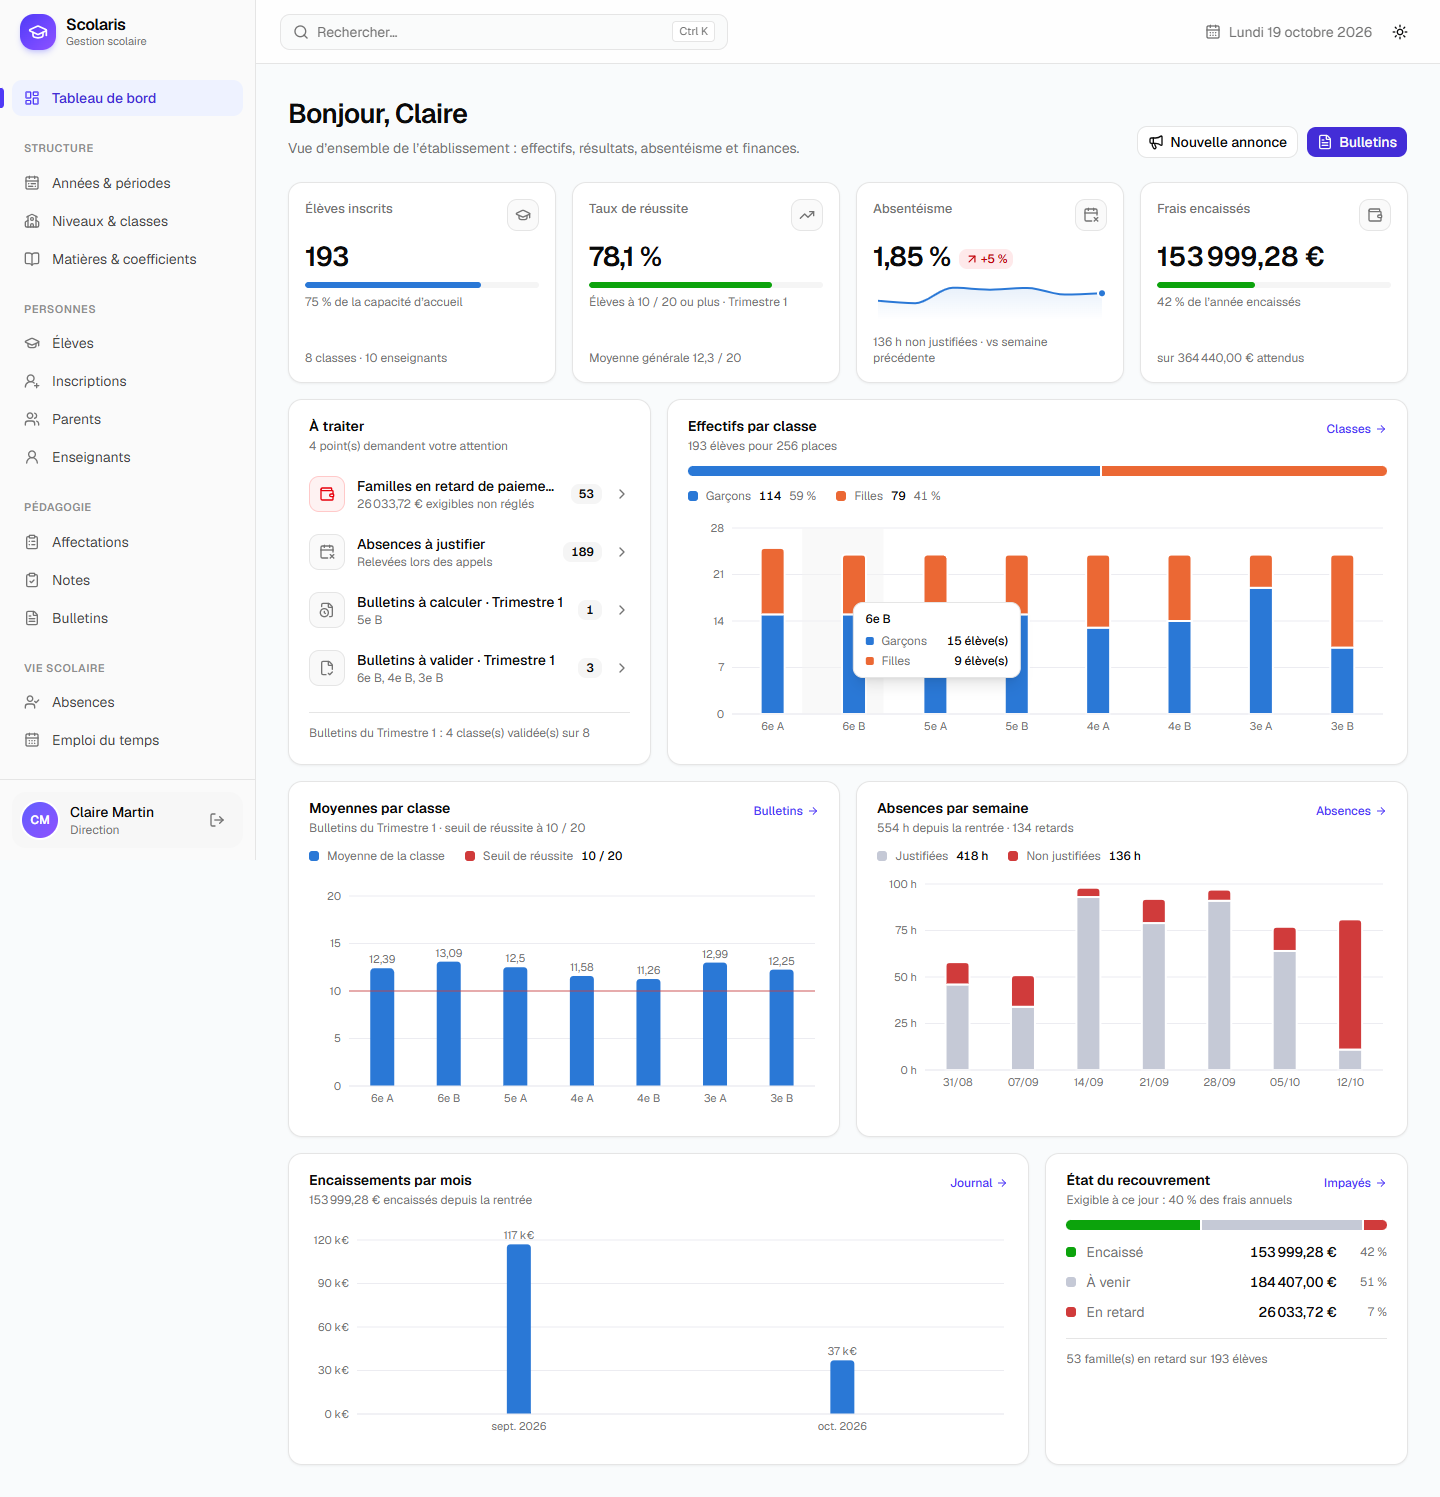
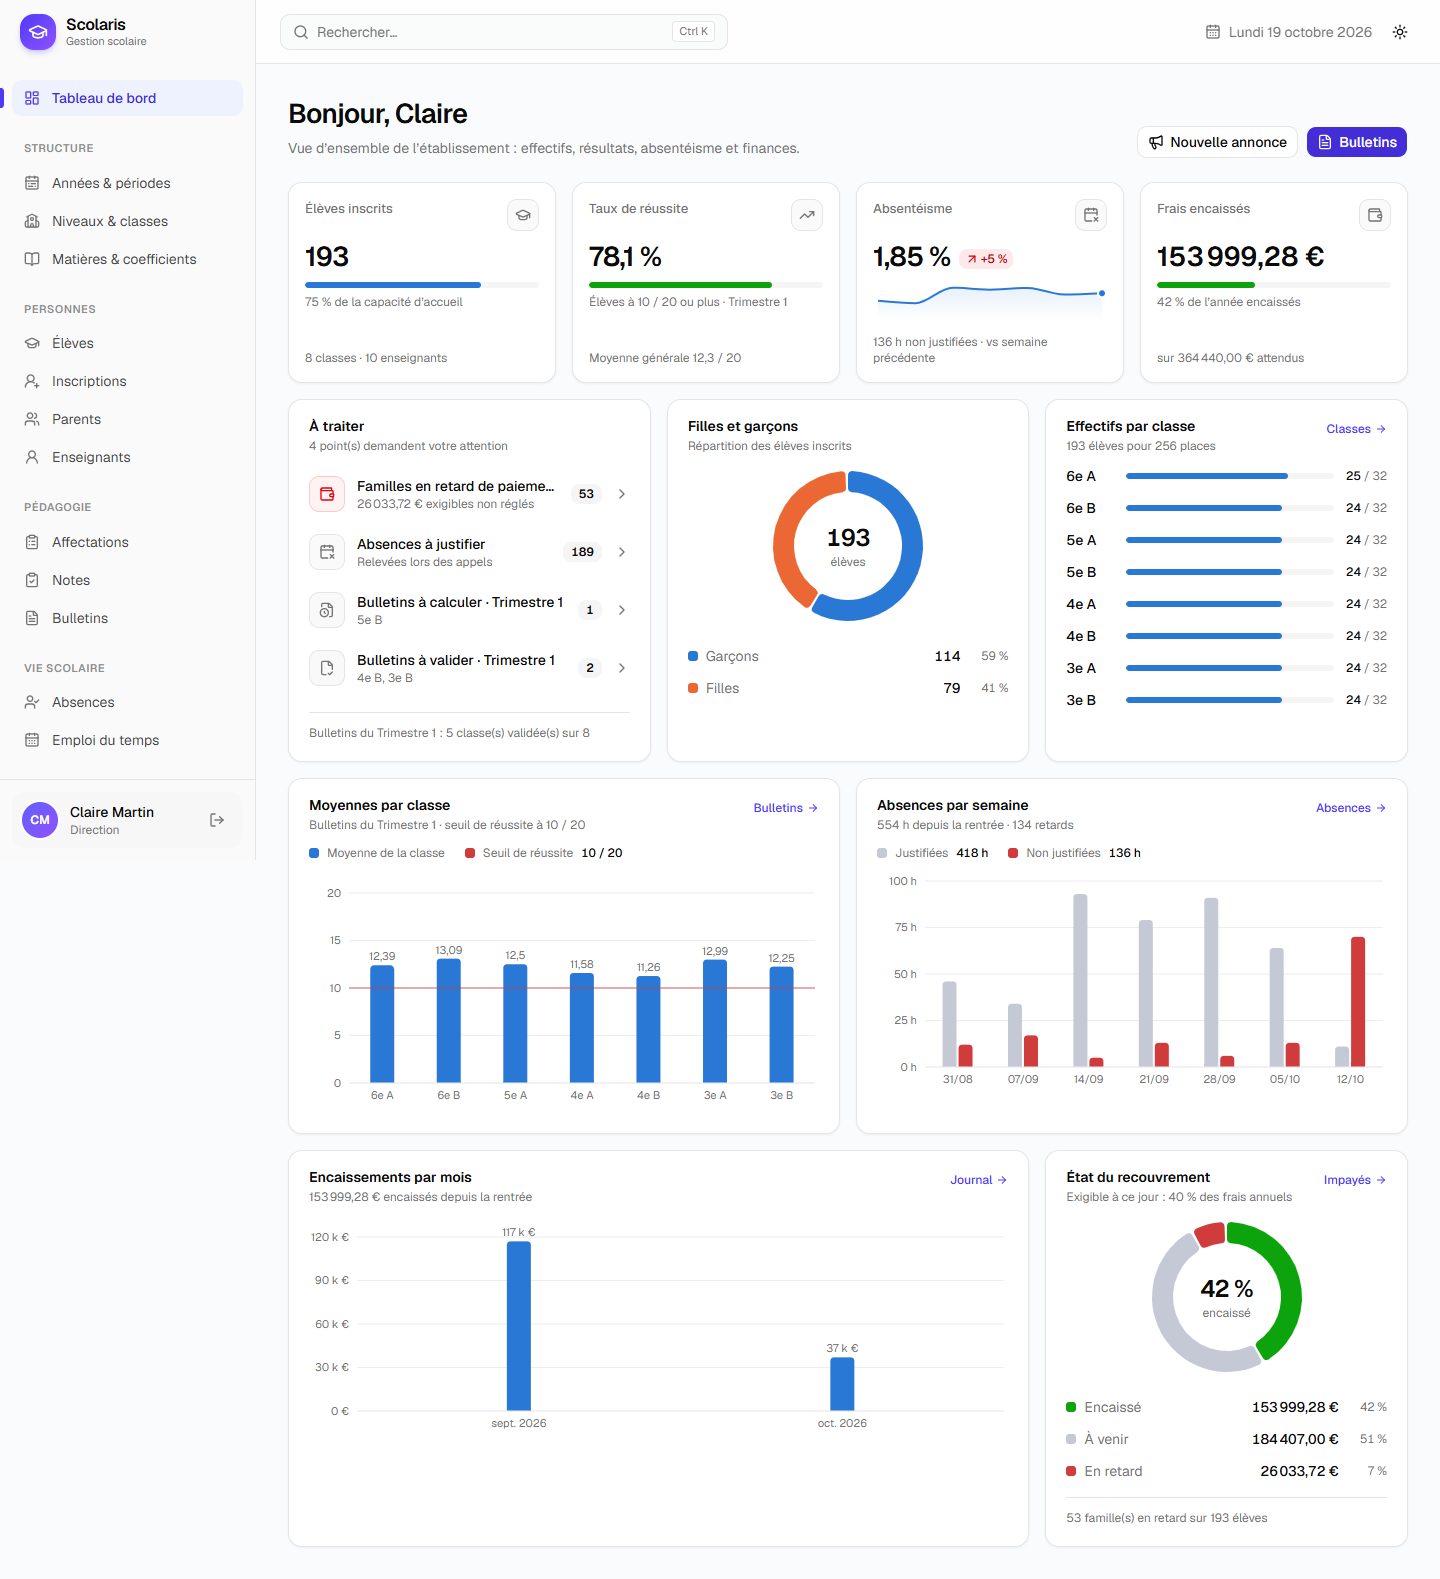
style(frontend): graphiques du tableau de bord plus lisibles
- Donuts pour filles/garçons et l'état du recouvrement (chiffre clé au centre)
- Effectifs par classe en barres de remplissage (effectif / capacité)
- Absences par semaine en barres côte à côte au lieu d'empilées

diff --git a/frontend/src/features/tableau-de-bord/components/TableauDirection.tsx b/frontend/src/features/tableau-de-bord/components/TableauDirection.tsx
@@ -8,7 +8,7 @@ import type { TableauDirection as Donnees } from '../types'
 import { ATraiter } from './ATraiter'
 import { Indicateur, LienPanneau, Panneau } from './Elements'
 import { AXE, COULEURS } from './graphiques'
-import { Infobulle, Jauge, Legende, Sparkline } from './Visuels'
+import { Donut, Infobulle, Jauge, Legende, Sparkline } from './Visuels'
 
 const GRILLE = { vertical: false, stroke: COULEURS.grille } as const
 const RAYON_HAUT: [number, number, number, number] = [4, 4, 0, 0]
@@ -82,35 +82,28 @@ export function TableauDirection({ donnees }: { donnees: Donnees }) {
         </Indicateur>
       </div>
 
-      {/* Actions en attente et effectifs */}
-      <div className="grid gap-4 lg:grid-cols-3">
+      {/* Actions en attente, répartition filles / garçons, remplissage des classes */}
+      <div className="grid gap-4 md:grid-cols-2 lg:grid-cols-3">
         <ATraiter donnees={donnees} />
 
+        <Panneau titre="Filles et garçons" description="Répartition des élèves inscrits">
+          <Donut
+            centre={String(compteurs.eleves)}
+            sousCentre="élèves"
+            parts={[
+              { libelle: 'Garçons', valeur: garcons, couleur: COULEURS.serie1 },
+              { libelle: 'Filles', valeur: filles, couleur: COULEURS.serie2 },
+            ]}
+          />
+        </Panneau>
+
         <Panneau
-          className="lg:col-span-2"
+          className="md:col-span-2 lg:col-span-1"
           titre="Effectifs par classe"
           description={`${compteurs.eleves} élèves pour ${capacite} places`}
           action={<LienPanneau to="/structure/classes">Classes</LienPanneau>}
         >
-          <Repartition
-            segments={[
-              { libelle: 'Garçons', valeur: garcons, couleur: COULEURS.serie1 },
-              { libelle: 'Filles', valeur: filles, couleur: COULEURS.serie2 },
-            ]}
-            formater={(v) => String(v)}
-          />
-          <div className="mt-4 h-56">
-            <ResponsiveContainer width="100%" height="100%">
-              <BarChart data={effectifs.map((e) => ({ classe: e.classe.nom, Garçons: e.garcons, Filles: e.filles }))} margin={{ top: 8, right: 4, left: -16, bottom: 0 }}>
-                <CartesianGrid {...GRILLE} />
-                <XAxis dataKey="classe" tick={AXE} tickLine={false} axisLine={{ stroke: COULEURS.grille }} />
-                <YAxis tick={AXE} tickLine={false} axisLine={false} allowDecimals={false} />
-                <Tooltip cursor={{ fill: 'var(--muted)', opacity: 0.5 }} content={<Infobulle formater={(v) => `${v} élève(s)`} />} />
-                <Bar dataKey="Garçons" stackId="effectif" fill={COULEURS.serie1} maxBarSize={24} stroke="var(--card)" strokeWidth={2} />
-                <Bar dataKey="Filles" stackId="effectif" fill={COULEURS.serie2} maxBarSize={24} stroke="var(--card)" strokeWidth={2} radius={RAYON_HAUT} />
-              </BarChart>
-            </ResponsiveContainer>
-          </div>
+          <RemplissageClasses effectifs={effectifs} />
         </Panneau>
       </div>
 
@@ -166,6 +159,7 @@ export function TableauDirection({ donnees }: { donnees: Donnees }) {
           <div className="h-56">
             <ResponsiveContainer width="100%" height="100%">
               <BarChart
+                barGap={2}
                 data={absenteisme.par_semaine.map((s) => ({ semaine: libelleSemaine(s.semaine), Justifiées: s.justifiees, 'Non justifiées': s.non_justifiees }))}
                 margin={{ top: 8, right: 4, left: -12, bottom: 0 }}
               >
@@ -176,8 +170,8 @@ export function TableauDirection({ donnees }: { donnees: Donnees }) {
                   cursor={{ fill: 'var(--muted)', opacity: 0.5 }}
                   content={<Infobulle formater={(v) => `${formatNombre(v)} h`} titre={(l) => `Semaine du ${l}`} />}
                 />
-                <Bar dataKey="Justifiées" stackId="h" fill={COULEURS.neutre} maxBarSize={24} stroke="var(--card)" strokeWidth={2} />
-                <Bar dataKey="Non justifiées" stackId="h" fill={COULEURS.critique} maxBarSize={24} stroke="var(--card)" strokeWidth={2} radius={RAYON_HAUT} />
+                <Bar dataKey="Justifiées" fill={COULEURS.neutre} maxBarSize={14} radius={RAYON_HAUT} />
+                <Bar dataKey="Non justifiées" fill={COULEURS.critique} maxBarSize={14} radius={RAYON_HAUT} />
               </BarChart>
             </ResponsiveContainer>
           </div>
@@ -207,19 +201,21 @@ export function TableauDirection({ donnees }: { donnees: Donnees }) {
           </div>
         </Panneau>
 
+
         <Panneau
           titre="État du recouvrement"
           description={`Exigible à ce jour : ${formatPourcentage(finances.pourcentage_exigible, 0)} des frais annuels`}
           action={<LienPanneau to="/paiements">Impayés</LienPanneau>}
         >
-          <Repartition
-            vertical
-            segments={[
+          <Donut
+            centre={`${partEncaissee} %`}
+            sousCentre="encaissé"
+            formater={(v) => formatMontant(v)}
+            parts={[
               { libelle: 'Encaissé', valeur: finances.encaisse, couleur: COULEURS.bon },
               { libelle: 'À venir', valeur: aVenir, couleur: COULEURS.neutre },
               { libelle: 'En retard', valeur: finances.retard, couleur: COULEURS.critique },
             ]}
-            formater={(v) => formatMontant(v)}
           />
           <p className="mt-4 border-t pt-3 text-xs text-muted-foreground">
             {finances.en_retard} famille(s) en retard sur {finances.eleves} élèves
@@ -230,43 +226,24 @@ export function TableauDirection({ donnees }: { donnees: Donnees }) {
   )
 }
 
-interface Segment {
-  libelle: string
-  valeur: number
-  couleur: string
-}
-
-/**
- * Répartition d'un total en barre segmentée (100 %), avec légende chiffrée.
- * Remplace les camemberts : les parts se comparent sur une même ligne.
- */
-function Repartition({ segments, formater, vertical = false }: { segments: Segment[]; formater: (v: number) => string; vertical?: boolean }) {
-  const total = segments.reduce((t, s) => t + s.valeur, 0)
-  const part = (v: number) => (total ? Math.round((v / total) * 100) : 0)
-
+/** Une ligne par classe : effectif sur capacité, en barre de remplissage. Une classe pleine passe en orange. */
+function RemplissageClasses({ effectifs }: { effectifs: Donnees['effectifs'] }) {
   return (
-    <div className="space-y-3">
-      <div className="flex h-2.5 w-full gap-0.5 overflow-hidden rounded-full" role="img" aria-label={segments.map((s) => `${s.libelle} ${part(s.valeur)} %`).join(', ')}>
-        {segments
-          .filter((s) => s.valeur > 0)
-          .map((s) => (
-            <div key={s.libelle} className="h-full first:rounded-l-full last:rounded-r-full" style={{ width: `${(s.valeur / total) * 100}%`, background: s.couleur }} />
-          ))}
-      </div>
-      {vertical ? (
-        <ul className="space-y-2.5">
-          {segments.map((s) => (
-            <li key={s.libelle} className="flex items-center gap-2.5 text-sm">
-              <span aria-hidden className="size-2.5 rounded-[3px]" style={{ background: s.couleur }} />
-              <span className="text-muted-foreground">{s.libelle}</span>
-              <span className="ml-auto font-medium tabular-nums">{formater(s.valeur)}</span>
-              <span className="w-10 text-right text-xs text-muted-foreground tabular-nums">{part(s.valeur)} %</span>
-            </li>
-          ))}
-        </ul>
-      ) : (
-        <Legende entrees={segments.map((s) => ({ libelle: s.libelle, couleur: s.couleur, valeur: formater(s.valeur), detail: `${part(s.valeur)} %` }))} />
-      )}
-    </div>
+    <ul className="space-y-3">
+      {effectifs.map((e) => {
+        const taux = remplissage(e.effectif, e.capacite)
+        const pleine = taux >= 100
+        return (
+          <li key={e.classe.id} className="grid grid-cols-[3rem_1fr_auto] items-center gap-3 text-sm">
+            <span className="font-medium">{e.classe.nom}</span>
+            <Jauge pourcentage={taux} couleur={pleine ? COULEURS.alerte : COULEURS.serie1} libelle={`Remplissage de la ${e.classe.nom}`} />
+            <span className="text-xs text-muted-foreground tabular-nums">
+              <span className="font-medium text-foreground">{e.effectif}</span> / {e.capacite}
+              {pleine && <span className="ml-1.5 font-medium text-foreground">· complète</span>}
+            </span>
+          </li>
+        )
+      })}
+    </ul>
   )
 }

diff --git a/frontend/src/features/tableau-de-bord/components/Visuels.tsx b/frontend/src/features/tableau-de-bord/components/Visuels.tsx
@@ -1,5 +1,5 @@
 import { useId } from 'react'
-import { Area, AreaChart, ResponsiveContainer } from 'recharts'
+import { Area, AreaChart, Cell, Pie, PieChart, ResponsiveContainer } from 'recharts'
 import { cn } from '@/lib/utils'
 
 /** Mini-courbe de tendance (2 px, aire à 10 %, point final), sans axes. */
@@ -46,6 +46,81 @@ export function Jauge({ pourcentage, couleur, libelle }: { pourcentage: number; 
   return (
     <div className="h-1.5 w-full overflow-hidden rounded-full bg-muted" role="meter" aria-valuenow={borne} aria-valuemin={0} aria-valuemax={100} aria-label={libelle}>
       <div className="h-full rounded-full transition-[width] duration-700" style={{ width: `${borne}%`, background: couleur }} />
+    </div>
+  )
+}
+
+export interface PartDonut {
+  libelle: string
+  valeur: number
+  couleur: string
+}
+
+/**
+ * Donut : parts d'un total, chiffre clé au centre, légende chiffrée (valeur + %) à côté.
+ * Réservé à peu de parts (2 à 4) pour rester lisible d'un coup d'œil.
+ */
+export function Donut({
+  parts,
+  centre,
+  sousCentre,
+  formater = (v) => String(v),
+}: {
+  parts: PartDonut[]
+  centre: string
+  sousCentre: string
+  formater?: (valeur: number) => string
+}) {
+  const total = parts.reduce((t, p) => t + p.valeur, 0)
+  const pourcentage = (v: number) => (total ? Math.round((v / total) * 100) : 0)
+
+  return (
+    <div className="@container">
+      {/* Légende à côté du donut si le panneau est assez large, dessous sinon */}
+      <div className="flex flex-col items-center gap-5 @md:flex-row">
+        <div
+          className="relative size-40 shrink-0"
+          role="img"
+          aria-label={parts.map((p) => `${p.libelle} : ${formater(p.valeur)} (${pourcentage(p.valeur)} %)`).join(', ')}
+        >
+          <ResponsiveContainer width="100%" height="100%">
+            <PieChart>
+              <Pie
+                data={total ? parts : [{ libelle: 'vide', valeur: 1, couleur: 'var(--muted)' }]}
+                dataKey="valeur"
+                nameKey="libelle"
+                innerRadius="72%"
+                outerRadius="100%"
+                startAngle={90}
+                endAngle={-270}
+                paddingAngle={total ? 2 : 0}
+                cornerRadius={4}
+                stroke="none"
+                isAnimationActive={false}
+              >
+                {(total ? parts : [{ libelle: 'vide', couleur: 'var(--muted)' }]).map((p) => (
+                  <Cell key={p.libelle} fill={p.couleur} />
+                ))}
+              </Pie>
+            </PieChart>
+          </ResponsiveContainer>
+          <div className="pointer-events-none absolute inset-0 flex flex-col items-center justify-center text-center">
+            <span className="text-2xl font-semibold tracking-tight tabular-nums">{centre}</span>
+            <span className="text-xs text-muted-foreground">{sousCentre}</span>
+          </div>
+        </div>
+  
+        <ul className="w-full min-w-0 flex-1 space-y-3">
+          {parts.map((p) => (
+            <li key={p.libelle} className="flex items-center gap-2 text-sm">
+              <span aria-hidden className="size-2.5 shrink-0 rounded-[3px]" style={{ background: p.couleur }} />
+              <span className="whitespace-nowrap text-muted-foreground">{p.libelle}</span>
+              <span className="ml-auto font-medium whitespace-nowrap tabular-nums">{formater(p.valeur)}</span>
+              <span className="w-10 text-right text-xs text-muted-foreground tabular-nums">{pourcentage(p.valeur)} %</span>
+            </li>
+          ))}
+        </ul>
+      </div>
     </div>
   )
 }
